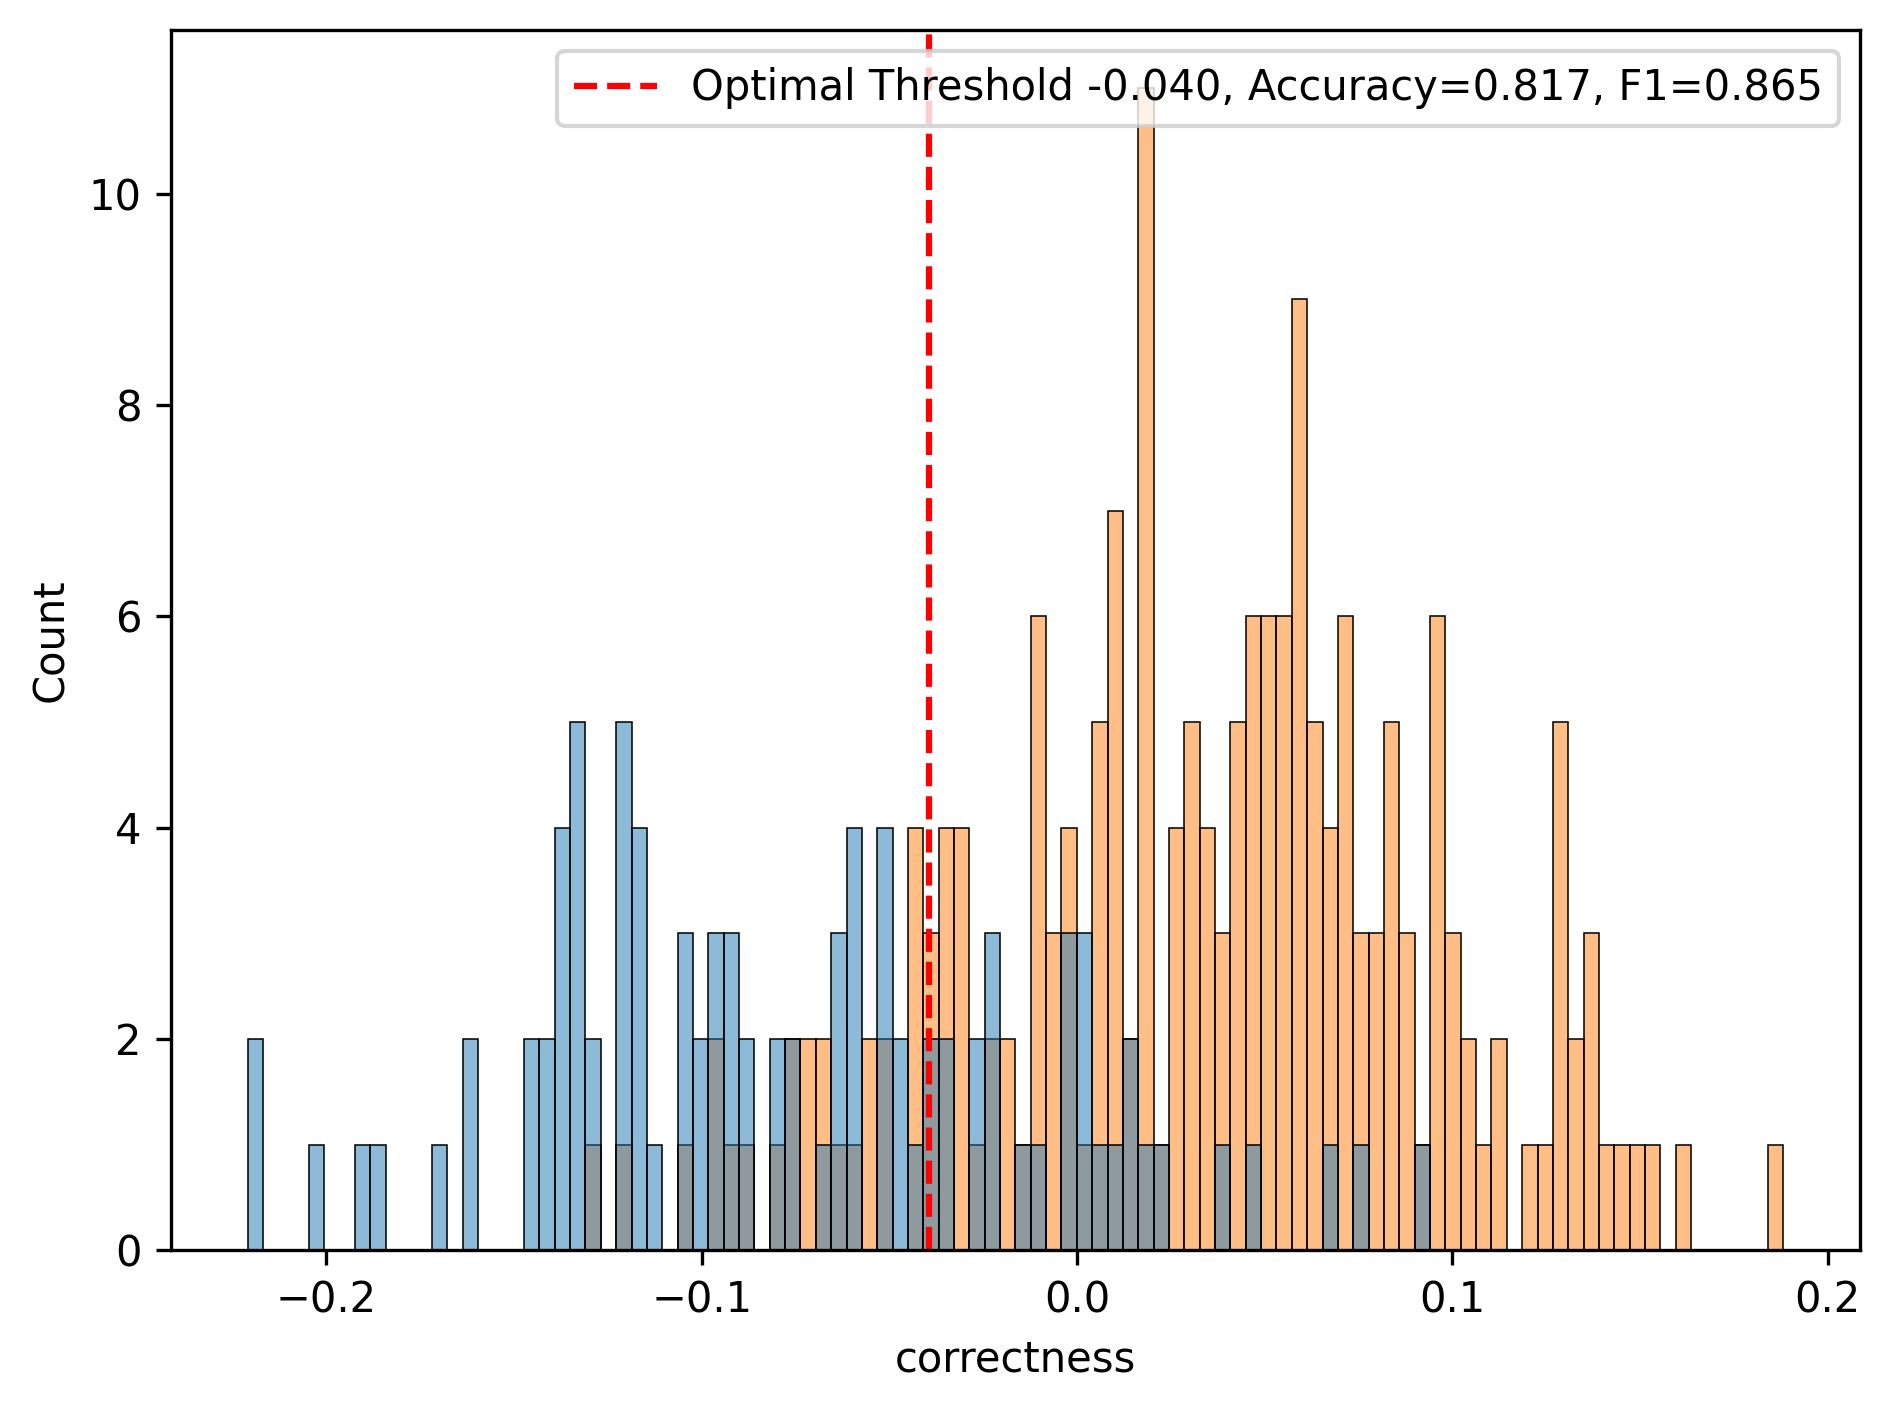
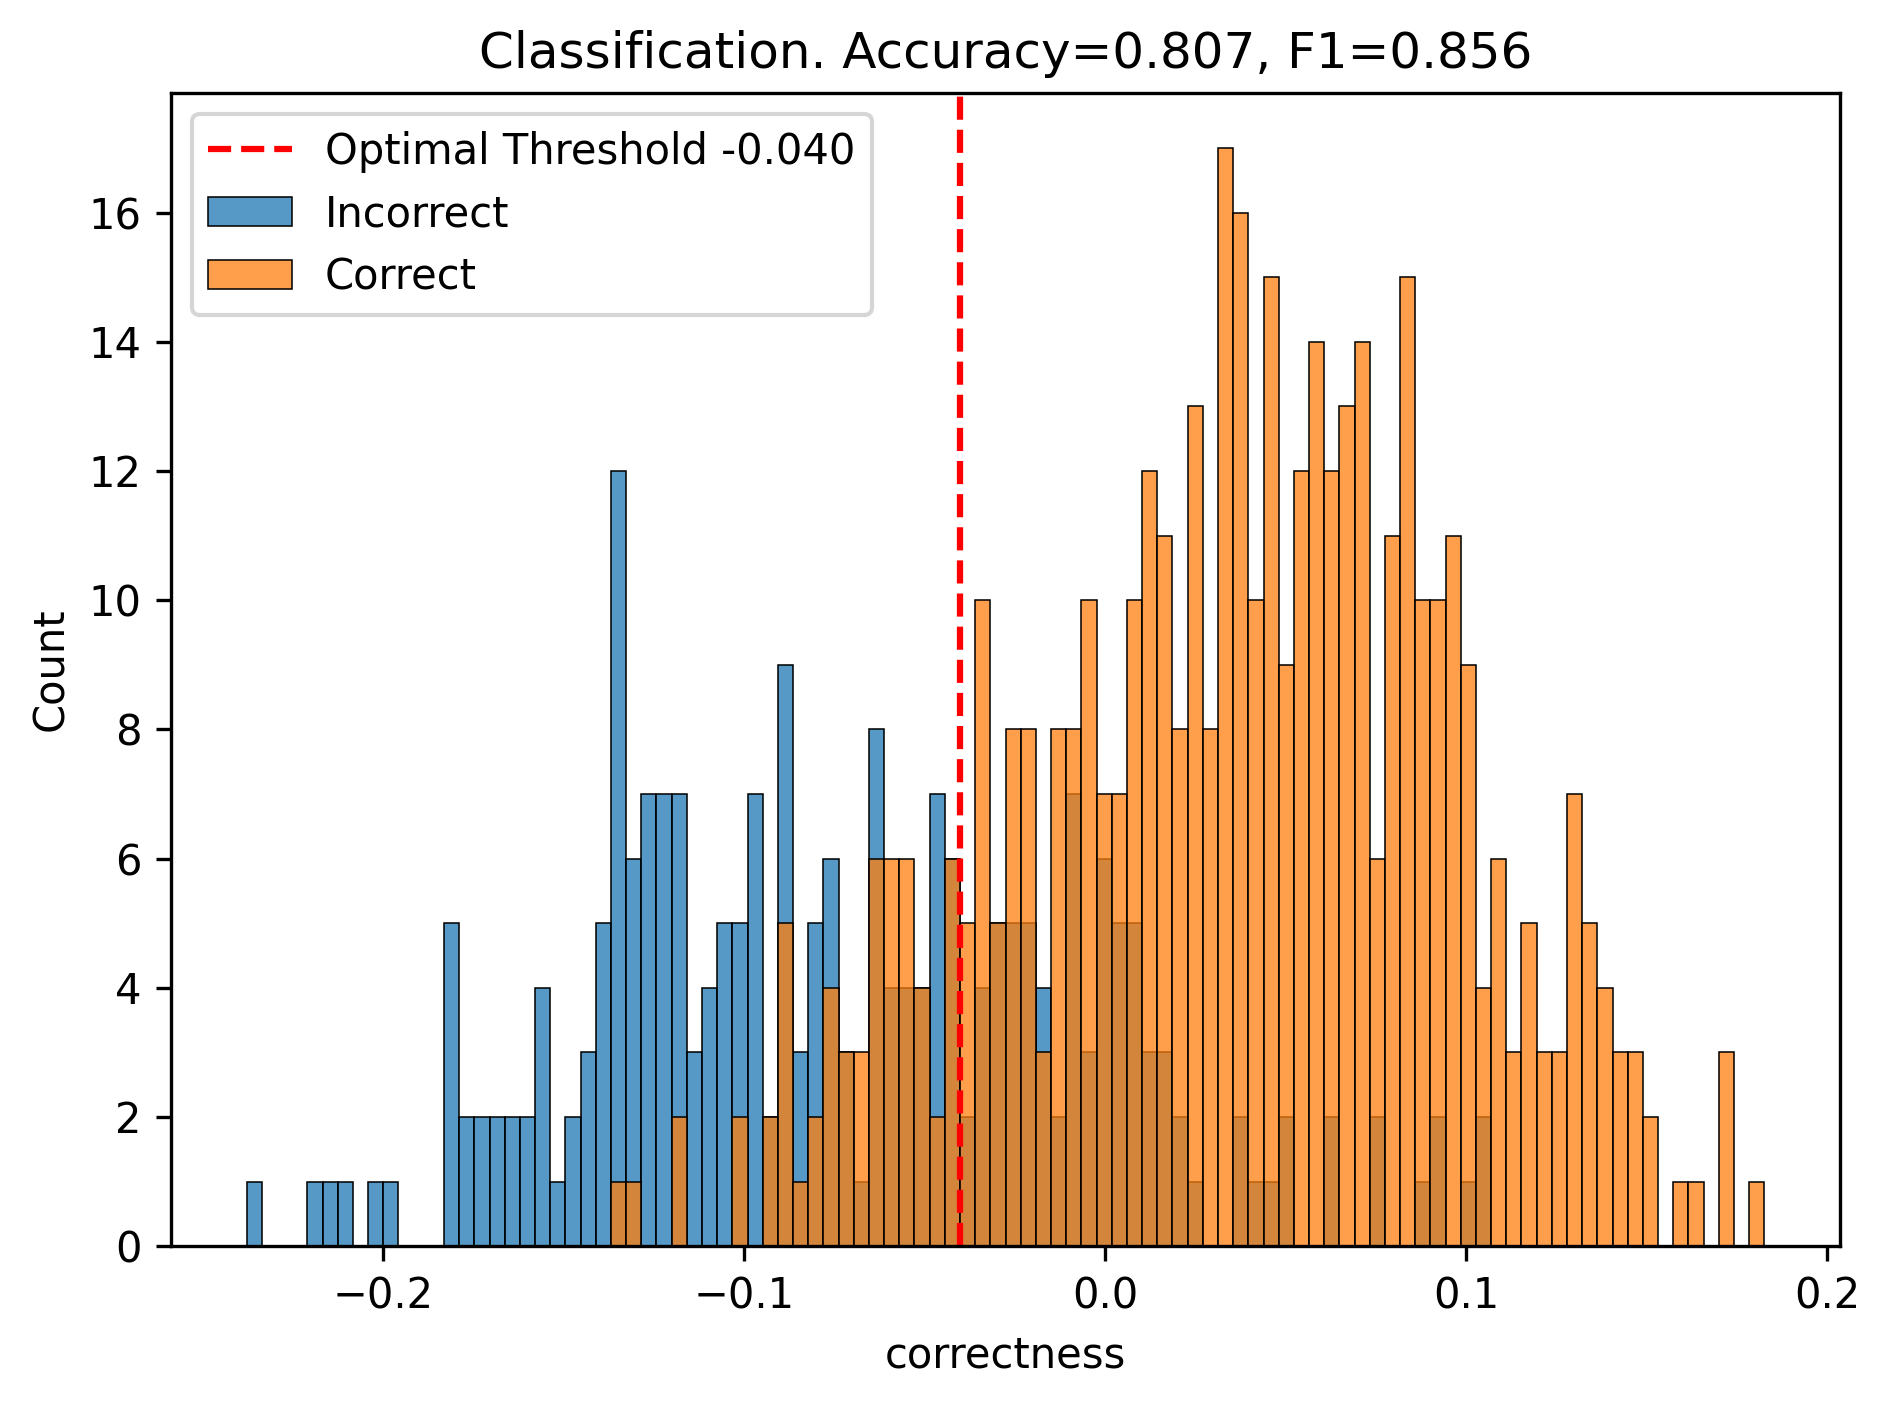
chore/update_plots_separate_idks fixed a bunch of stuff, generated a plot with IDKs separately

diff --git a/src/stages/visualise_classification.py b/src/stages/visualise_classification.py
@@ -14,7 +14,7 @@ from sklearn.decomposition import PCA
 from sklearn.metrics import accuracy_score, auc, roc_curve, f1_score
 from sklearn.pipeline import make_pipeline
 from sklearn.preprocessing import StandardScaler
-
+from sklearn.linear_model import LogisticRegression
 
 def _act_file_to_batch_idx(file: Path) -> int:
     return int(str(file).split("_")[-1].split(".")[0])
@@ -44,33 +44,36 @@ def evaluate_classification(labels, correctness, experiment_path, optimal_thresh
     df = pd.DataFrame({"label": labels, "correctness": correctness})
 
     fpr, tpr, thresholds = roc_curve(df["label"], df["correctness"])
-    # youden_index = tpr - fpr
-    # optimal_idx = np.argmax(youden_index)
-    # optimal_threshold = thresholds[optimal_idx]
 
     acc = accuracy_score(df["label"], df["correctness"] >= optimal_threshold)
     f1 = f1_score(df["label"], df["correctness"] >= optimal_threshold)
     roc_auc = auc(fpr, tpr)
 
-    # ax = sns.histplot(
-    #     df[~df["label"]]["correctness"],
-    #     label="Incorrect",
-    #     bins=20,
-    # )
-    # ax = sns.histplot(df[df["label"]]["correctness"], label="Correct", bins=20, ax=ax)
+    # Create the plot with multiple categories but shared bins
+    bin_edges = np.histogram_bin_edges(df["correctness"], bins=100)
     ax = sns.histplot(
-        data=df,
-        x="correctness",
-        hue="label",
-        bins=100,
+        x=df[~df["label"]]["correctness"], 
+        label="Incorrect",
+        bins=bin_edges
     )
+    ax = sns.histplot(
+        x=df[df["label"]]["correctness"], 
+        label="Correct",
+        bins=bin_edges
+    )
+
+    # Add the threshold line
+    optimal_threshold_label = f"Optimal Threshold {optimal_threshold:.3f}"
     ax.axvline(
         optimal_threshold,
         color="red",
         linestyle="--",
-        label=f"Optimal Threshold {optimal_threshold:.3f}, Accuracy={acc:.3f}, F1={f1:.3f}",
+        label=optimal_threshold_label
     )
+
+    # Create the new legend with all elements
     ax.legend()
+    ax.set_title(f"Classification. Accuracy={acc:.3f}, F1={f1:.3f}")
     plt.tight_layout()
     plt.savefig(
         experiment_path / "classifier_separation.png", dpi=300, bbox_inches="tight"
@@ -164,7 +167,7 @@ def load_labels_df_and_activations(
 def find_optimal_cut(labels, classifications):
     fpr, tpr, thresholds = roc_curve(labels, classifications)
     youden_index = tpr - fpr
-    optimal_idx = np.argmax(youden_index)
+    optimal_idx = np.argmax(youden_index[1:]) + 1
     return thresholds[optimal_idx]
 
 def evaluate_correctness_direction_and_classifier(
@@ -200,10 +203,12 @@ def evaluate_correctness_direction_and_classifier(
         correctness_end_pca - zero_pca
     )  # need to transform the begining and end of the vector so that we transform the vector so that we can get the difference in pca space.
 
+    test_label_df_ = test_label_df.copy()
+    test_label_df_.loc[test_label_df_["special"], "correct"] = "IDK" ### todo clean this. only for plotting i don't know responses separately, dataset specific
     ax = sns.scatterplot(
         x=pca_activations_test[:, 0],
         y=pca_activations_test[:, 1],
-        hue=test_label_df["correct"].map({True: "Correct", False: "Incorrect"}),
+        hue=test_label_df_["correct"].map(lambda val: {True: "Correct", False: "Incorrect"}.get(val, val)),
     )
     ax.quiver(
         0,
@@ -251,17 +256,17 @@ def evaluate_logistic_regression_classifier(
     X_train = scaler.fit_transform(X_train)
     X_test = scaler.transform(X_test)
 
-    from sklearn.linear_model import LogisticRegression
 
     model = LogisticRegression(random_state=42, solver="lbfgs", max_iter=1000)
     model.fit(X_train, train_label_df["correct"])
 
     # Step 4: Make predictions
-    train_label_df["correctness"] = model.predict(X_train)
-    test_label_df["correctness"] = model.predict(X_test)
+    train_label_df["correctness"] = model.predict_proba(X_train)
+    test_label_df["correctness"] = model.predict_proba(X_test)
 
     correctness_direction_path = experiment_path / "logistic_regression_classifier"
     correctness_direction_path.mkdir(parents=True, exist_ok=True)
+
     evaluate_classification(
         test_label_df["correct"],
         test_label_df["correctness"],
@@ -400,7 +405,9 @@ def classifier_experiment_run(
     labels_df["correct"] = labels_df["is_correct"]    
     labels_df.loc[labels_df["correct"] == "UK", "correct"] = "True"
 
+    labels_df["special"] = False
 
+    labels_df.loc[labels_df["correct"] == "IDK", "special"] = True
     labels_df.loc[labels_df["correct"] == "IDK", "correct"] = "False"
     # labels_df = labels_df[labels_df["correct"] != "IDK"]
     # activations = activations[list(labels_df.index)]
